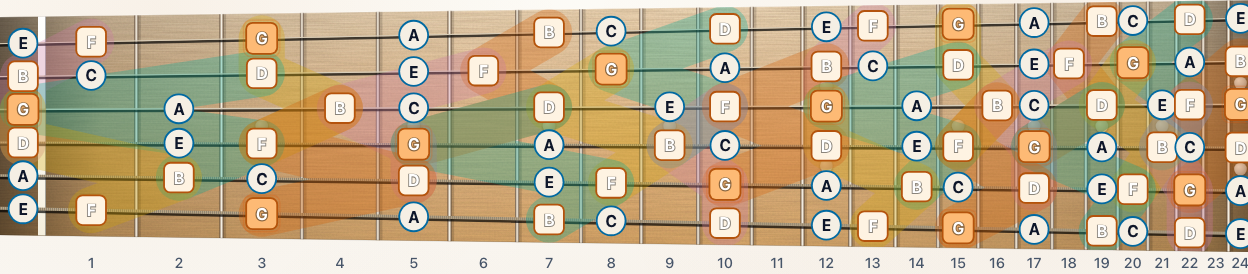
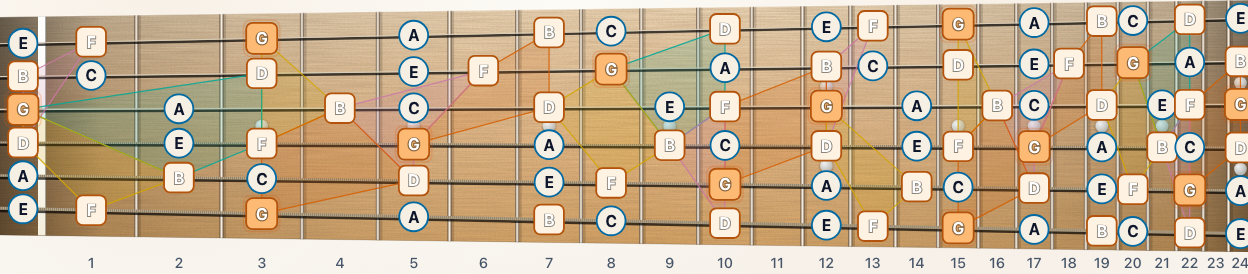
test(visual): refresh darwin snapshots for two-pass chord-connector render

diff --git a/src/components/FretboardSVG/hooks/useChordConnectorPolylines.test.ts b/src/components/FretboardSVG/hooks/useChordConnectorPolylines.test.ts
@@ -544,9 +544,9 @@ describe("buildChordConnectorPolylines", () => {
   // Contour smoke tests (fat polyline geometry)
   // -------------------------------------------------------------------------
 
-  it("triad voicing (3 different frets): d is M+L+L open polyline visiting all 3 vertices", () => {
-    // C major triad on 3 different frets in string-index order.
-    // d: open polyline through all 3 vertices — M v0 L v1 L v2 (no Z).
+  it("triad voicing (3 different frets): paths.fill is closed polygon visiting all 3 vertices", () => {
+    // C major triad on 3 different frets — non-collinear, so polarSort produces
+    // a closed polygon (ends with Z). fill === outline (byte-identical).
     const noteData = [
       makeNote(0, 3, "C", "chord-root"),
       makeNote(1, 5, "E", "chord-tone-in-scale"),
@@ -554,19 +554,22 @@ describe("buildChordConnectorPolylines", () => {
     ];
     const result = buildChordConnectorPolylines(noteData, ["C", "E", "G"], fretCenterX, stringYAt, STRING_ROW_PX, "C");
     expect(result).toHaveLength(1);
-    const { d } = result[0]!;
-    expect(d).not.toBe("");
-    expect(d.startsWith("M")).toBe(true);
-    expect(d.endsWith("Z")).toBe(false);
-    // 3 vertices → 2 L commands (M + L + L)
-    const lCount = (d.match(/\bL\b/g) ?? []).length;
+    const { paths } = result[0]!;
+    expect(paths.fill).not.toBe("");
+    expect(paths.fill.startsWith("M")).toBe(true);
+    // Non-collinear → closed polygon → ends with Z.
+    expect(paths.fill.endsWith("Z")).toBe(true);
+    // 3 vertices → 2 L commands (M + L + L + Z)
+    const lCount = (paths.fill.match(/\bL\b/g) ?? []).length;
     expect(lCount).toBe(2);
+    // fill and outline are byte-identical for non-collinear voicings.
+    expect(paths.fill).toBe(paths.outline);
   });
 
-  it("7th chord voicing (4 vertices): d is M+L+L+L open polyline visiting all 4 vertices", () => {
+  it("7th chord voicing (4 vertices): paths.fill is closed polygon visiting all 4 vertices", () => {
     // Cmaj7: C, E, G, B across 4 strings within 3 fret positions.
     // Frets [3,4,4,5]: positions {3,4,5} → count 3 ≤ MAX_PLAYABLE_FRET_POSITIONS → kept.
-    // d: open polyline through all 4 vertices — M v0 L v1 L v2 L v3 (no Z).
+    // Non-collinear 4-vertex polygon (fill === outline).
     const noteData = [
       makeNote(0, 3, "C", "chord-root"),
       makeNote(1, 4, "E", "chord-tone-in-scale"),
@@ -575,18 +578,21 @@ describe("buildChordConnectorPolylines", () => {
     ];
     const result = buildChordConnectorPolylines(noteData, ["C", "E", "G", "B"], fretCenterX, stringYAt, STRING_ROW_PX, "C");
     expect(result).toHaveLength(1);
-    const { d } = result[0]!;
-    expect(d).not.toBe("");
-    expect(d.startsWith("M")).toBe(true);
-    expect(d.endsWith("Z")).toBe(false);
-    // 4 vertices → 3 L commands (M + L + L + L)
-    const lCount = (d.match(/\bL\b/g) ?? []).length;
+    const { paths } = result[0]!;
+    expect(paths.fill).not.toBe("");
+    expect(paths.fill.startsWith("M")).toBe(true);
+    // Non-collinear → closed polygon → ends with Z.
+    expect(paths.fill.endsWith("Z")).toBe(true);
+    // 4 vertices → 3 L commands (M + L + L + L + Z)
+    const lCount = (paths.fill.match(/\bL\b/g) ?? []).length;
     expect(lCount).toBe(3);
+    // fill and outline are byte-identical.
+    expect(paths.fill).toBe(paths.outline);
   });
 
-  it("collinear voicing (same fret, 3 adjacent strings): d is M+L+L open polyline, no Z", () => {
+  it("collinear voicing (same fret, 3 adjacent strings): paths are inflated capsule with arc commands", () => {
     // All 3 notes at the exact same fret → same x coordinate → collinear.
-    // d: open polyline — M v0 L v1 L v2 (no Z).
+    // Collinear dispatch → inflatedCapsulePath → contains arc 'A' commands.
     // fretCenterX(5) = 50; all x values equal 50.
     const noteData = [
       makeNote(0, 5, "C", "chord-root"),
@@ -595,35 +601,30 @@ describe("buildChordConnectorPolylines", () => {
     ];
     const result = buildChordConnectorPolylines(noteData, ["C", "E", "G"], fretCenterX, stringYAt, STRING_ROW_PX, "C");
     expect(result).toHaveLength(1);
-    const { d } = result[0]!;
-    expect(d).not.toBe("");
-    expect(d.startsWith("M")).toBe(true);
-    expect(d.endsWith("Z")).toBe(false);
-    // 3 vertices → 2 L commands
-    const lCount = (d.match(/\bL\b/g) ?? []).length;
-    expect(lCount).toBe(2);
-    // All x coordinates must be equal (same fret column x=50).
-    // Path tokens: "M 50 0 L 50 20 L 50 40" — verify all x values are 50.
-    expect(d).toMatch(/^M 50 [\d.]+ L 50 [\d.]+ L 50 [\d.]+$/);
+    const { paths } = result[0]!;
+    expect(paths.fill).not.toBe("");
+    // Capsule path contains arc commands.
+    expect(paths.fill).toContain("A");
+    expect(paths.outline).toContain("A");
+    // fill and outline are byte-identical for collinear voicings too.
+    expect(paths.fill).toBe(paths.outline);
   });
 
   // -------------------------------------------------------------------------
-  // Regression: near-collinear diagonal triad G-E-C must visit all 3 vertices
+  // Regression: near-collinear diagonal triad G-E-C
   //
-  // Prior approach: convexHull dropped the middle vertex E when G→E→C were
-  // near-collinear, collapsing the envelope to a 2-vertex capsule.
-  // Fix: open polyline in string-index order literally visits every vertex —
-  // no hull computation, no vertex dropping.
+  // G(string 4, fret 5) → E(string 5, fret 6) → C(string 6, fret 7):
+  // x=50,y=80; x=60,y=100; x=70,y=120 — exactly collinear (shoelace area = 0).
+  // Dispatch → inflatedCapsulePath → capsule with arc 'A' commands.
+  // The capsule envelops all 3 vertices without dropping any.
   // -------------------------------------------------------------------------
 
-  it("(regression) near-collinear diagonal G-E-C: d visits all 3 vertices (no vertex drop)", () => {
+  it("(regression) near-collinear diagonal G-E-C: paths are capsule (all 3 vertices enveloped)", () => {
     // Voicing: G(string 4, fret 5) → E(string 5, fret 6) → C(string 6, fret 7).
     // Frets [5,6,7]: positions {5,6,7} → count 3 ≤ MAX_PLAYABLE_FRET_POSITIONS → kept.
     // With fretCenterX(fi)=fi*10 and stringYAt(si)=si*20:
-    //   G: x=50, y=80   E: x=60, y=100   C: x=70, y=120 (near-collinear diagonal).
-    //
-    // d: open polyline through all 3 vertices in string-index order (no Z).
-    //    The middle vertex E is always visited — no hull collapse possible.
+    //   G: x=50, y=80   E: x=60, y=100   C: x=70, y=120 — exactly collinear.
+    // Capsule path envelops all vertices; arc 'A' commands confirm capsule dispatch.
     const noteData = [
       makeNote(4, 5, "G", "chord-tone-in-scale"),
       makeNote(5, 6, "E", "chord-tone-in-scale"),
@@ -631,17 +632,50 @@ describe("buildChordConnectorPolylines", () => {
     ];
     const result = buildChordConnectorPolylines(noteData, ["C", "E", "G"], fretCenterX, stringYAt, STRING_ROW_PX, "C");
     expect(result).toHaveLength(1);
-    const { d } = result[0]!;
-    // d: open polyline — M v0 L v1 L v2 (no Z, 2 L commands visiting all 3 vertices).
-    expect(d).not.toBe("");
-    expect(d.startsWith("M")).toBe(true);
-    expect(d.endsWith("Z")).toBe(false);
-    const lCount = (d.match(/\bL\b/g) ?? []).length;
-    expect(lCount).toBe(2);
-    // Verify all 3 vertices appear: x=50 (fret 5), x=60 (fret 6), x=70 (fret 7).
-    expect(d).toContain("50 ");
-    expect(d).toContain("60 ");
-    expect(d).toContain("70 ");
+    const { paths } = result[0]!;
+    expect(paths.fill).not.toBe("");
+    // Collinear diagonal → capsule dispatch → arc commands present.
+    expect(paths.fill).toContain("A");
+    expect(paths.fill).toBe(paths.outline);
+  });
+
+  // -------------------------------------------------------------------------
+  // New: non-collinear fill === outline (byte-identical)
+  // -------------------------------------------------------------------------
+
+  it("non-collinear voicing: fill and outline paths are byte-identical", () => {
+    // Use 3 notes at different frets to guarantee non-collinear polygon.
+    const noteData = [
+      makeNote(0, 3, "C", "chord-root"),
+      makeNote(1, 5, "E", "chord-tone-in-scale"),
+      makeNote(2, 4, "G", "chord-tone-in-scale"),
+    ];
+    const result = buildChordConnectorPolylines(
+      noteData, ["C", "E", "G"], fretCenterX, stringYAt, STRING_ROW_PX, "C",
+    );
+    expect(result).toHaveLength(1);
+    expect(result[0]!.paths.fill).toBe(result[0]!.paths.outline);
+    expect(result[0]!.paths.fill).toContain("Z"); // closed polygon
+  });
+
+  // -------------------------------------------------------------------------
+  // New: collinear voicing capsule arcs
+  // -------------------------------------------------------------------------
+
+  it("collinear voicing: both fill and outline are inflated capsule paths", () => {
+    // Use 3 notes at same fret to guarantee collinear input.
+    const noteData = [
+      makeNote(0, 5, "C", "chord-root"),
+      makeNote(1, 5, "E", "chord-tone-in-scale"),
+      makeNote(2, 5, "G", "chord-tone-in-scale"),
+    ];
+    const result = buildChordConnectorPolylines(
+      noteData, ["C", "E", "G"], fretCenterX, stringYAt, STRING_ROW_PX, "C",
+    );
+    expect(result).toHaveLength(1);
+    expect(result[0]!.paths.fill).toContain("A");    // arc command from capsule
+    expect(result[0]!.paths.outline).toContain("A");
+    expect(result[0]!.paths.fill).toBe(result[0]!.paths.outline);
   });
 });
 